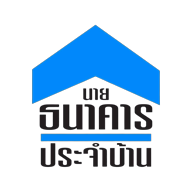
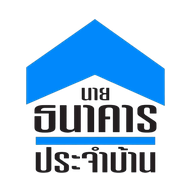
แก้ไอคอน PWA ให้เป็นทรงเดียวกับแอปอื่นบนหน้าจอมือถือ
อาการ: ไอคอน "นายธนาคารประจำบ้าน" บนหน้าจอ Android ขึ้นเป็นสี่เหลี่ยมขาว
ไม่โค้งมนเข้ารูปเหมือนแอปอื่น

สาเหตุ: icon-maskable-512.png พื้นหลังโปร่งใส (มีแค่กรอบ #0b1220 รอบนอก)
launcher เลยเติมพื้นขาวเองแล้วครอบทรง ได้ผลเป็นสี่เหลี่ยมซ้อนในทรงโค้ง
ทั้ง icon-192/512 ก็พื้นโปร่งเช่นกัน — iOS จะขึ้นพื้นดำ

แก้:
- ทำใหม่ทุกใบเป็นพื้นขาวทึบเต็มกรอบ (edge-to-edge) ไม่มีพื้นโปร่ง
- maskable วางศิลป์ 56% ของกรอบ อยู่ในเซฟโซน 80% ตามสเปค Android
- any วางศิลป์ 80%
- เพิ่ม icon-maskable-192.png (บาง launcher หยิบ 192 ก่อน)
- เพิ่ม apple-touch-icon-180.png ทึบ กัน iOS ขึ้นพื้นดำ
- index.html เคยมี apple-touch-icon ซ้ำ 2 บรรทัด (ตัวหลัง logo1.png พื้นโปร่ง
  ทับตัวแรก) เหลือบรรทัดเดียวชี้ไฟล์ใหม่

ไฟล์เดิมสำรองไว้ที่ icons/_backup-2026-08-18/ (ไม่ commit)

Changed region(s): [[0.125, 0.0938, 0.875, 0.9062]]

diff --git a/index.html b/index.html
@@ -5,7 +5,7 @@
 <meta name="viewport" content="width=device-width, initial-scale=1.0, viewport-fit=cover">
 <meta name="theme-color" content="#1e40af">
 <link rel="manifest" href="/site.webmanifest">
-<link rel="apple-touch-icon" href="/icons/icon-192.png">
+<link rel="apple-touch-icon" sizes="180x180" href="/icons/apple-touch-icon-180.png">
 <title>นายธนาคารประจำบ้าน — ปิดหนี้ รวมหนี้ บ้านมือ 1 อยู่เอง คอนโดมือ 1 ลงทุน เช่าซื้อ</title>
 <meta name="description" content="ที่ปรึกษาทางการเงินมืออาชีพ ตั้งแต่ปี 2562 ปิดหนี้ รวมหนี้ บ้านมือ 1 อยู่เอง คอนโดมือ 1 ลงทุน เช่าซื้อ-ผ่อนตรง บริการครบจบในที่เดียว ปรึกษาฟรี">
 <meta name="facebook-domain-verification" content="wr1wbdyoxkowb4f1uprnrn1s6if1v1" />
@@ -27,7 +27,6 @@
 <meta name="twitter:image" content="https://ninethanakarn.com/og-image.png">
 
 <link rel="icon" type="image/png" href="logo1.png">
-<link rel="apple-touch-icon" href="logo1.png">
 
 <link rel="preconnect" href="https://fonts.googleapis.com">
 <link rel="preconnect" href="https://fonts.gstatic.com" crossorigin>
